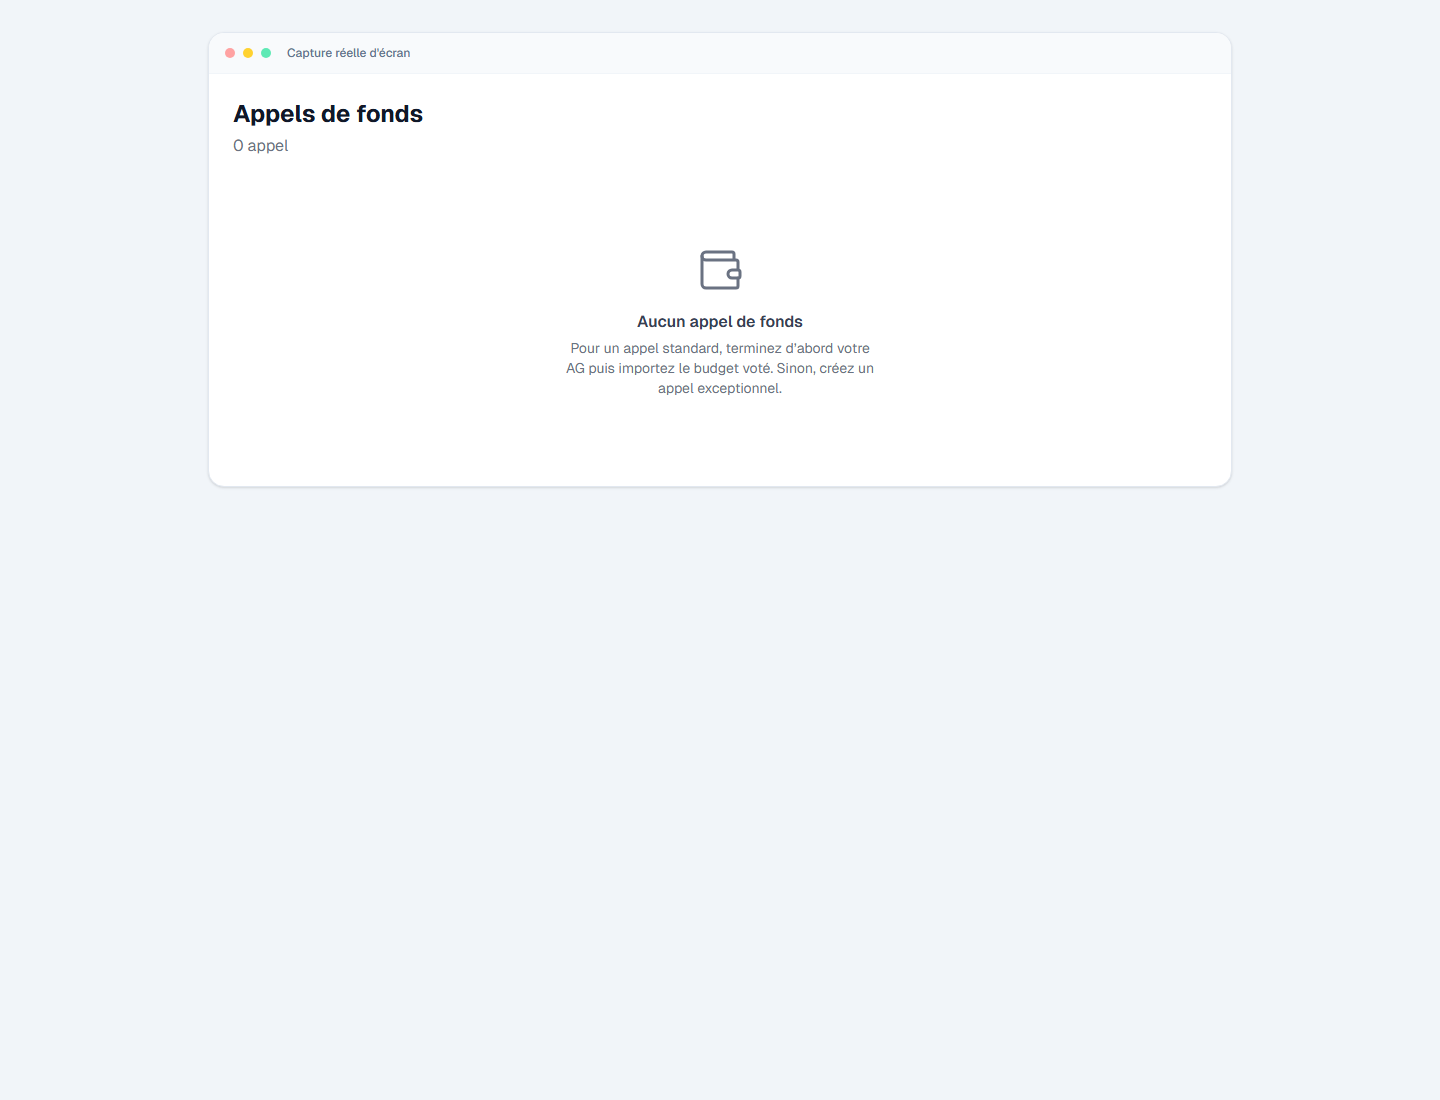
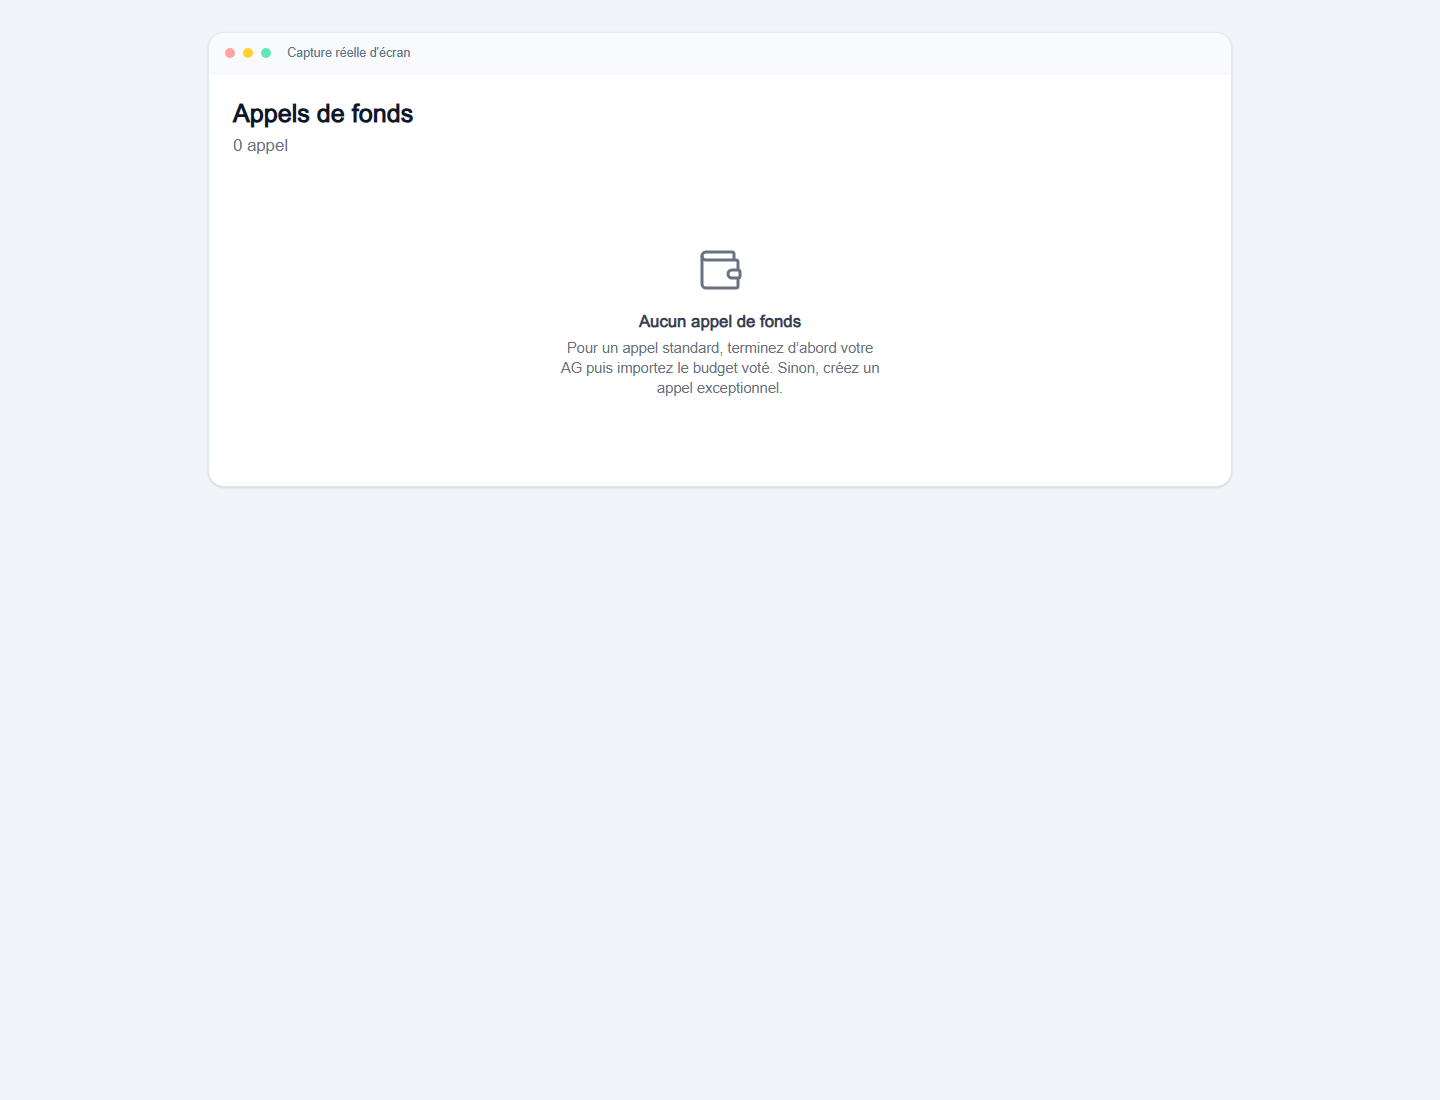
Improve guide screenshot readability

Changed region(s): [[0.375, 0.2782, 0.625, 0.3709], [0.1562, 0.0927, 0.3125, 0.1545], [0.1875, 0.0309, 0.2812, 0.0618]]

diff --git a/coprosaas/src/app/guide-demarrage/captures/[variant]/page.tsx b/coprosaas/src/app/guide-demarrage/captures/[variant]/page.tsx
@@ -34,15 +34,15 @@ const captureVariants = new Set([
 
 function CaptureFrame({ title, children }: { title: string; children: React.ReactNode }) {
   return (
-    <div className="min-h-screen bg-slate-100 p-8">
-      <div className="mx-auto max-w-5xl rounded-2xl border border-slate-200 bg-white shadow-sm overflow-hidden" data-guide-capture={title}>
+    <div className="bg-slate-100 p-2">
+      <div className="mx-auto max-w-[1100px] overflow-hidden rounded-2xl border border-slate-200 bg-white shadow-sm" data-guide-capture={title}>
         <div className="flex items-center gap-2 border-b border-slate-100 bg-slate-50 px-4 py-3">
           <span className="h-2.5 w-2.5 rounded-full bg-red-300" />
           <span className="h-2.5 w-2.5 rounded-full bg-amber-300" />
           <span className="h-2.5 w-2.5 rounded-full bg-emerald-300" />
           <p className="ml-2 text-xs font-medium text-slate-500">Capture réelle d'écran</p>
         </div>
-        <div className="p-6">{children}</div>
+        <div className="p-4">{children}</div>
       </div>
     </div>
   );
@@ -50,8 +50,8 @@ function CaptureFrame({ title, children }: { title: string; children: React.Reac
 
 function DashboardEmptyCapture() {
   return (
-    <div className="max-w-5xl mx-auto space-y-6">
-      <Card className="text-center py-14">
+    <div className="max-w-4xl mx-auto space-y-4">
+      <Card className="text-center py-12">
         <Building2 size={52} className="mx-auto text-blue-200 mb-5" />
         <h3 className="text-xl font-bold text-gray-800">Bienvenue sur Mon Syndic Bénévole !</h3>
         <p className="text-gray-500 text-sm mt-2 max-w-sm mx-auto">
@@ -68,7 +68,7 @@ function DashboardEmptyCapture() {
 
 function CoproprieteFormCapture() {
   return (
-    <div className="max-w-xl mx-auto space-y-6">
+    <div className="max-w-2xl mx-auto space-y-4">
       <div>
         <h2 className="text-2xl font-bold text-gray-900">Nouvelle copropriété</h2>
         <p className="text-gray-500 mt-1">Renseignez les informations de la copropriété.</p>
@@ -94,7 +94,7 @@ function CoproprieteFormCapture() {
 
 function LotsEmptyCapture() {
   return (
-    <div className="max-w-5xl mx-auto space-y-6">
+    <div className="max-w-4xl mx-auto space-y-4">
       <div>
         <h2 className="text-2xl font-bold text-gray-900">Lots & bâtiment</h2>
         <p className="text-gray-500 mt-1">0 lot(s)</p>
@@ -110,7 +110,7 @@ function LotsEmptyCapture() {
 
 function CoproprietairesEmptyCapture() {
   return (
-    <div className="max-w-5xl mx-auto space-y-6">
+    <div className="max-w-4xl mx-auto space-y-4">
       <div>
         <h2 className="text-2xl font-bold text-gray-900">Copropriétaires</h2>
         <p className="text-gray-500 mt-1">0 copropriétaire(s)</p>
@@ -126,7 +126,7 @@ function CoproprietairesEmptyCapture() {
 
 function AppelsEmptyCapture() {
   return (
-    <div className="max-w-5xl mx-auto space-y-6">
+    <div className="max-w-4xl mx-auto space-y-4">
       <div>
         <h2 className="text-2xl font-bold text-gray-900">Appels de fonds</h2>
         <p className="text-gray-500 mt-1">0 appel</p>
@@ -142,7 +142,7 @@ function AppelsEmptyCapture() {
 
 function DepensesEmptyCapture() {
   return (
-    <div className="max-w-5xl mx-auto space-y-6">
+    <div className="max-w-4xl mx-auto space-y-4">
       <div>
         <h2 className="text-2xl font-bold text-gray-900">Dépenses</h2>
         <p className="text-gray-500 mt-1">0 dépense</p>
@@ -158,7 +158,7 @@ function DepensesEmptyCapture() {
 
 function AGEmptyCapture() {
   return (
-    <div className="max-w-5xl mx-auto space-y-6">
+    <div className="max-w-4xl mx-auto space-y-4">
       <div>
         <h2 className="text-2xl font-bold text-gray-900">Assemblées</h2>
         <p className="text-gray-500 mt-1">0 AG</p>
@@ -174,7 +174,7 @@ function AGEmptyCapture() {
 
 function DocumentsEmptyCapture() {
   return (
-    <div className="max-w-5xl mx-auto space-y-6">
+    <div className="max-w-4xl mx-auto space-y-4">
       <div>
         <h2 className="text-2xl font-bold text-gray-900">Documents</h2>
         <p className="text-gray-500 mt-1">0 élément</p>

diff --git a/coprosaas/src/app/guide-demarrage/page.tsx b/coprosaas/src/app/guide-demarrage/page.tsx
@@ -259,15 +259,21 @@ function GuidePreview({ title, variant }: { title: string; variant: string }) {
         <span className="h-2.5 w-2.5 rounded-full bg-emerald-300" />
         <p className="ml-2 text-xs font-medium text-slate-500">Capture réelle de l’écran</p>
       </div>
-      <div className="bg-slate-50 p-2 sm:p-3">
-        <Image
-          src={`/guide-demarrage/captures/${variant}.png`}
-          alt={title}
-          width={1280}
-          height={900}
-          className="h-auto w-full rounded-xl border border-slate-200 bg-white"
-          priority={variant === 'dashboard'}
-        />
+      <div className="bg-slate-50 p-1.5 sm:p-2">
+        <a href={`/guide-demarrage/captures/${variant}.png`} target="_blank" rel="noreferrer" className="block">
+          <Image
+            src={`/guide-demarrage/captures/${variant}.png`}
+            alt={title}
+            width={1280}
+            height={900}
+            sizes="(min-width: 1280px) 1100px, (min-width: 768px) 90vw, 100vw"
+            className="block h-auto w-full rounded-xl border border-slate-200 bg-white"
+            priority={variant === 'dashboard'}
+          />
+        </a>
+      </div>
+      <div className="border-t border-slate-100 px-4 py-2 text-[11px] text-slate-500">
+        Cliquez sur la capture pour l’ouvrir en grand.
       </div>
     </div>
   );
@@ -374,7 +380,7 @@ export default function GuideDemarragePage() {
               const Icon = step.icon;
               return (
                 <section key={step.id} id={step.id} className="scroll-mt-24 rounded-3xl border border-slate-200 bg-white p-5 sm:p-6 shadow-sm">
-                  <div className="grid gap-6 lg:grid-cols-[1.25fr_0.9fr]">
+                  <div className="grid gap-6">
                     <div>
                       <div className="flex flex-wrap items-center gap-2">
                         <span className="rounded-full bg-indigo-50 px-2.5 py-1 text-[11px] font-semibold uppercase tracking-wide text-indigo-700">
